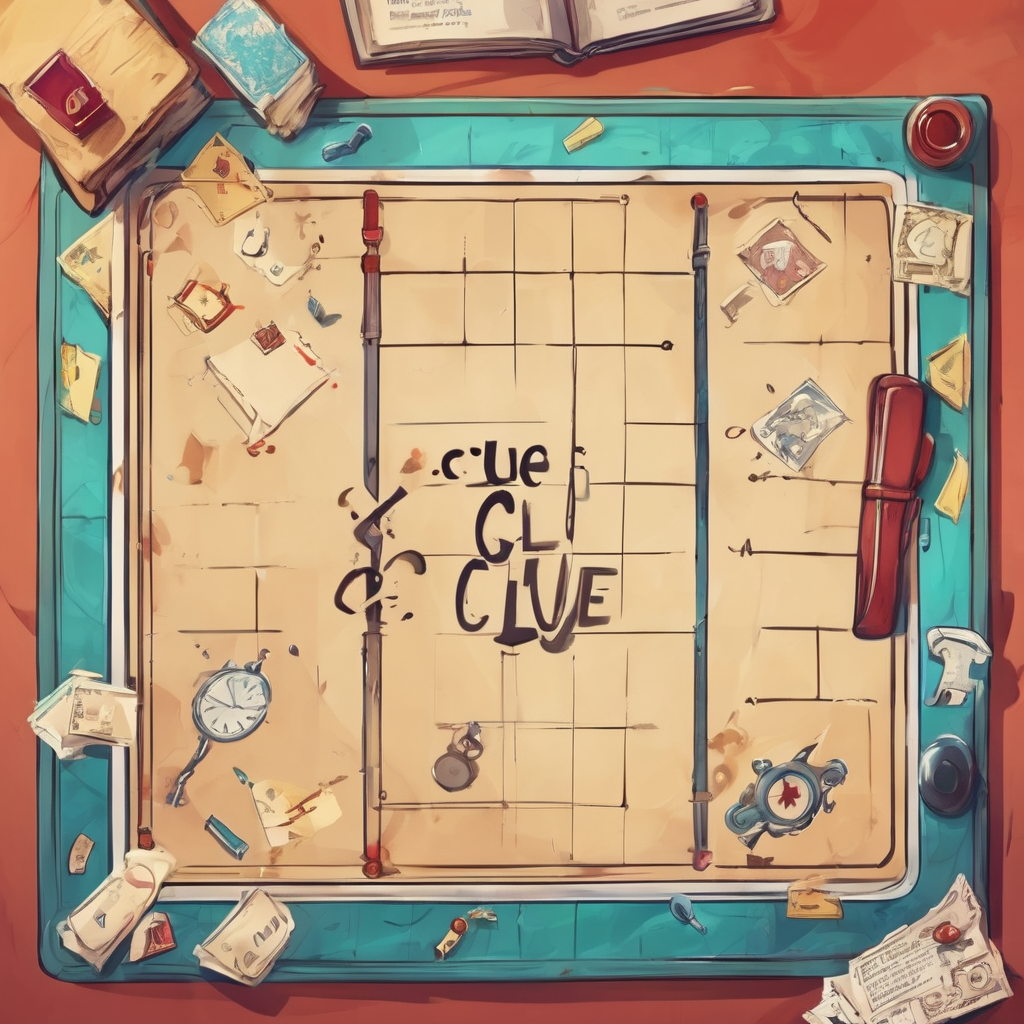
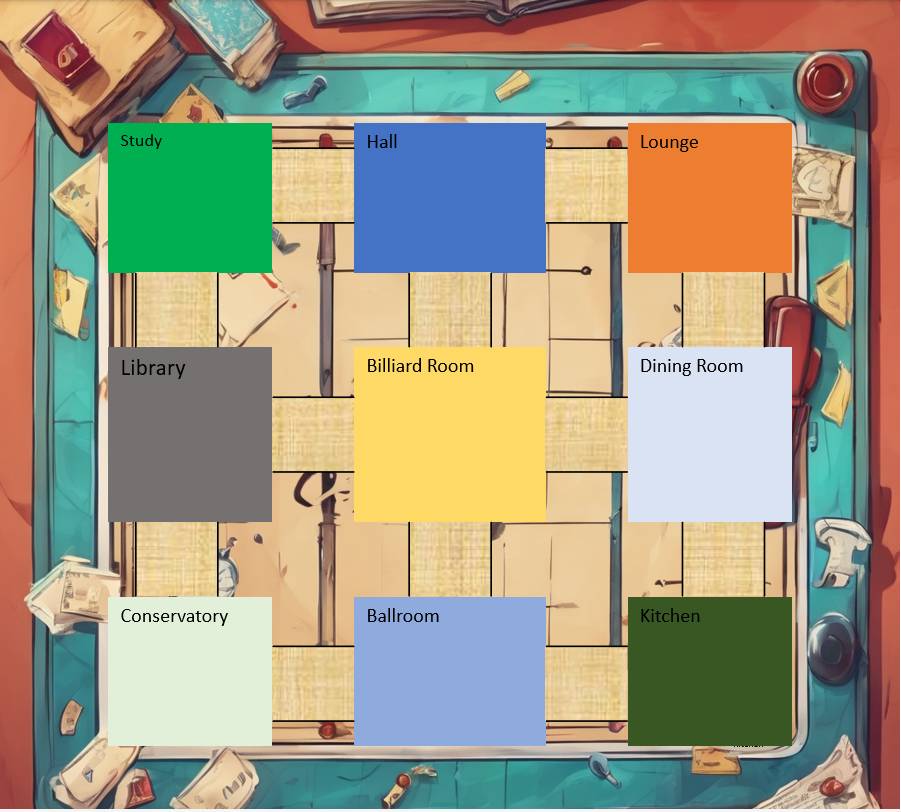
added a function for a player choosing a new room

diff --git a/backend/Board.py b/backend/Board.py
@@ -1,0 +1,41 @@
+class Room:
+    def __init__(self, Id: int, isHallway: bool, location: str):
+        self.Id = Id
+        self.isHallway = isHallway
+        self.location = location
+
+
+class Gameboard:
+    def __init__(self):
+        # Initialize all rooms and hallways
+        room_names = ["study", "hall", "lounge", "library", "billiard", "dining", "conservatory", "ballroom", "kitchen"]
+        hallway_names = ["StudyHall", "LoungeHall", "StudyLibrary", "BilliardHall", "DiningLounge", "LibraryBilliard", 
+                         "BilliardDining", "LibraryConservatory", "BilliardBall", "DiningKitchen", "ConservatoryBall", "KitchenBall"]
+        self.rooms = {name: Room(i * 2 + 1, False, name) for i, name in enumerate(room_names)}
+        self.hallways = [Room(i * 2 + 2, True, name) for i, name in enumerate(hallway_names)]
+    
+    def createLayout(self):
+        # Create the Layout in a Graph
+        self.layout = {self.rooms["study"]: [self.rooms["library"], self.rooms["hall"], self.rooms["kitchen"], self.hallways[0], self.hallways[2]],
+                       self.rooms["hall"]: [self.rooms["study"], self.rooms["billiard"], self.rooms["lounge"], self.hallways[0], self.hallways[1], self.hallways[3]],
+                       self.rooms["lounge"]: [self.rooms["hall"], self.rooms["dining"], self.rooms["conservatory"], self.hallways[1], self.hallways[4]],
+                       self.rooms["library"]: [self.rooms["study"], self.rooms["billiard"], self.rooms["conservatory"], self.hallways[2], self.hallways[5], self.hallways[7]],
+                       self.rooms["billiard"]: [self.rooms["hall"], self.rooms["library"], self.rooms["dining"], self.rooms["ballroom"], self.hallways[3], self.hallways[5], self.hallways[6], self.hallways[8]],
+                       self.rooms["dining"]: [self.rooms["billiard"], self.rooms["lounge"], self.rooms["kitchen"], self.hallways[4], self.hallways[6], self.hallways[9]],
+                       self.rooms["conservatory"]: [self.rooms["library"], self.rooms["billiard"], self.rooms["lounge"], self.hallways[7], self.hallways[10]],
+                       self.rooms["ballroom"]: [self.rooms["conservatory"], self.rooms["billiard"], self.rooms["kitchen"], self.hallways[8] , self.hallways[10], self.hallways[11]],
+                       self.rooms["kitchen"]: [self.rooms["ballroom"], self.rooms["dining"], self.rooms["study"], self.hallways[9] , self.hallways[11]]}
+        
+    def get_room_by_id(self, room_id):
+        # Check in rooms
+        for room in self.rooms.values():
+            if room.Id == room_id:
+                return room
+
+        # Check in hallways
+        for room in self.hallways:
+            if room.Id == room_id:
+                return room
+
+        # If no room is found
+        return None

diff --git a/client/events.py b/client/events.py
@@ -8,6 +8,8 @@ from ...backend.Character import mapping_from_character_to_locations
 
 from flask import request
 from flask_socketio import emit
+from Board import *
+from Player import *
 
 # we will add all the events onto this object, then import
 # this in init
@@ -19,9 +21,8 @@ import pymysql
 from dbAccount import*
 
 
-
-
 db = pymysql.connect(host='localhost', port=3306, user=usr, password=pwd, db='NotAClue', charset='utf8')
+board = Gameboard()
 
 # This connection function is from the tutorial: https://www.youtube.com/watch?v=AMp6hlA8xKA
 @socketio.on("connect")
@@ -46,10 +47,12 @@ def handle_user_join(username):
 @socketio.on("player_select")
 def handle_player_select(character):
     # "playerName" is synonymous with "character"
+    # find the username, this is a bad way to go about it
     username = SQL_get_username_based_on_sid(db, request.sid)
     characters_and_usernames = SQL_get_characters_and_usernames(db)
     characters = [i[0] for i in characters_and_usernames]
     usernames = [i[1] for i in characters_and_usernames]
+
     # check to make sure another player hasnt chosen this character
     if character in characters:
         return
@@ -71,3 +74,15 @@ def handle_player_select(character):
 @socketio.on("game_start")
 def handle_game_start():
     emit("start_game", broadcast=True)
+    board.createLayout()
+
+# Handles when a player chooses a room
+def handle_player_room_choose(player: Player, newRoomId):
+    currRoom = board.get_room_by_id(player.roomId)
+    newRoom = board.get_room_by_id(newRoomId)
+    newRoomChoices = board.layout[currRoom]
+    if(newRoom in newRoomChoices):
+        player.move(newRoomId)
+    else:
+        raise ValueError("You must choose a location that is adjacent to you (unless you can take a secret passage)")
+    
